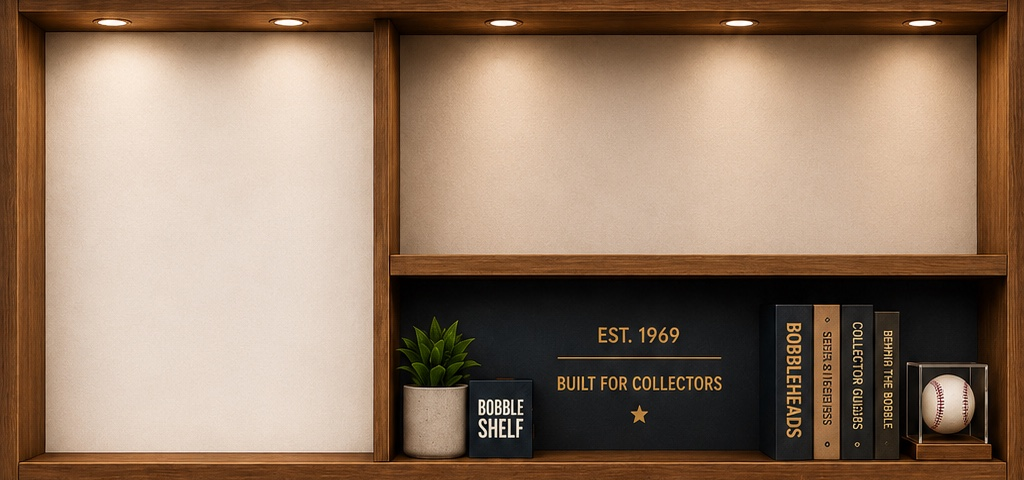
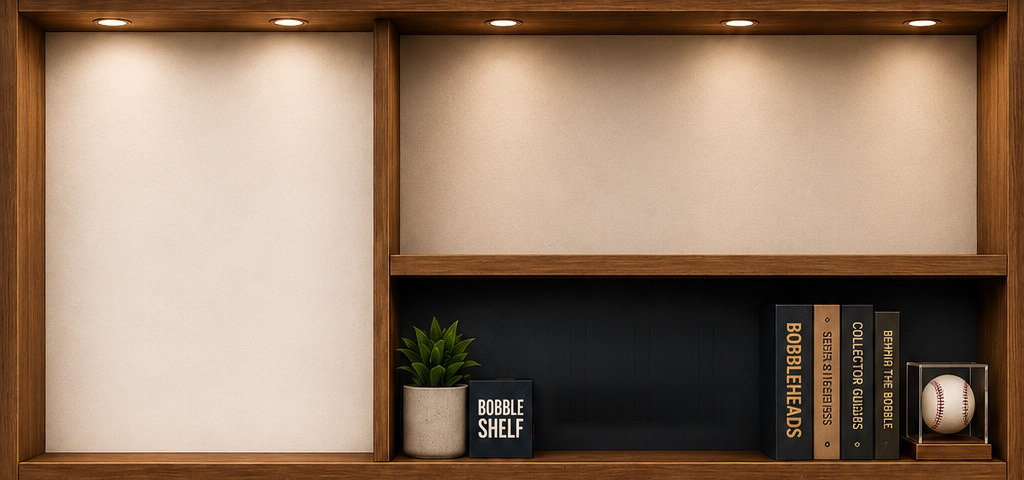
Paint the EST. 1969 plaque out of the hero artwork
The plaque was baked into public/hero-shelf.jpg, so the wrong founding year
could not be fixed in markup. Rebuilt that region of the panel from the clean
backing on either side — per-row gradient to keep the vignette, the panel's own
grain added back, feathered edges — leaving the plant, the BOBBLE SHELF box and
the books untouched.

Changed region(s): [[0.5312, 0.6562, 0.7188, 0.75], [0.5312, 0.7812, 0.7188, 0.8125], [0.5938, 0.8438, 0.6562, 0.875]]

diff --git a/app/page.tsx b/app/page.tsx
@@ -43,9 +43,8 @@ const HERO_SHELF_SLUGS = [
 
 // The hero artwork (public/hero-shelf.jpg, 1024x480) is a photographed display
 // case: a tall pin-board panel on the left and a lit shelf on the right with
-// an "EST. 1969" plaque and props below it. These percentages locate those
-// regions so the pitch sits inside the left panel and the figures stand
-// exactly on the lit shelf's ledge.
+// props below it. These percentages locate those regions so the pitch sits
+// inside the left panel and the figures stand exactly on the lit shelf's ledge.
 const HERO_TEXT_BOX = { left: "6%", top: "8%", width: "27%", height: "84%" };
 const HERO_SHELF_BOX = { left: "40.5%", right: "3.5%", bottom: "46%", height: "40%" };
 
